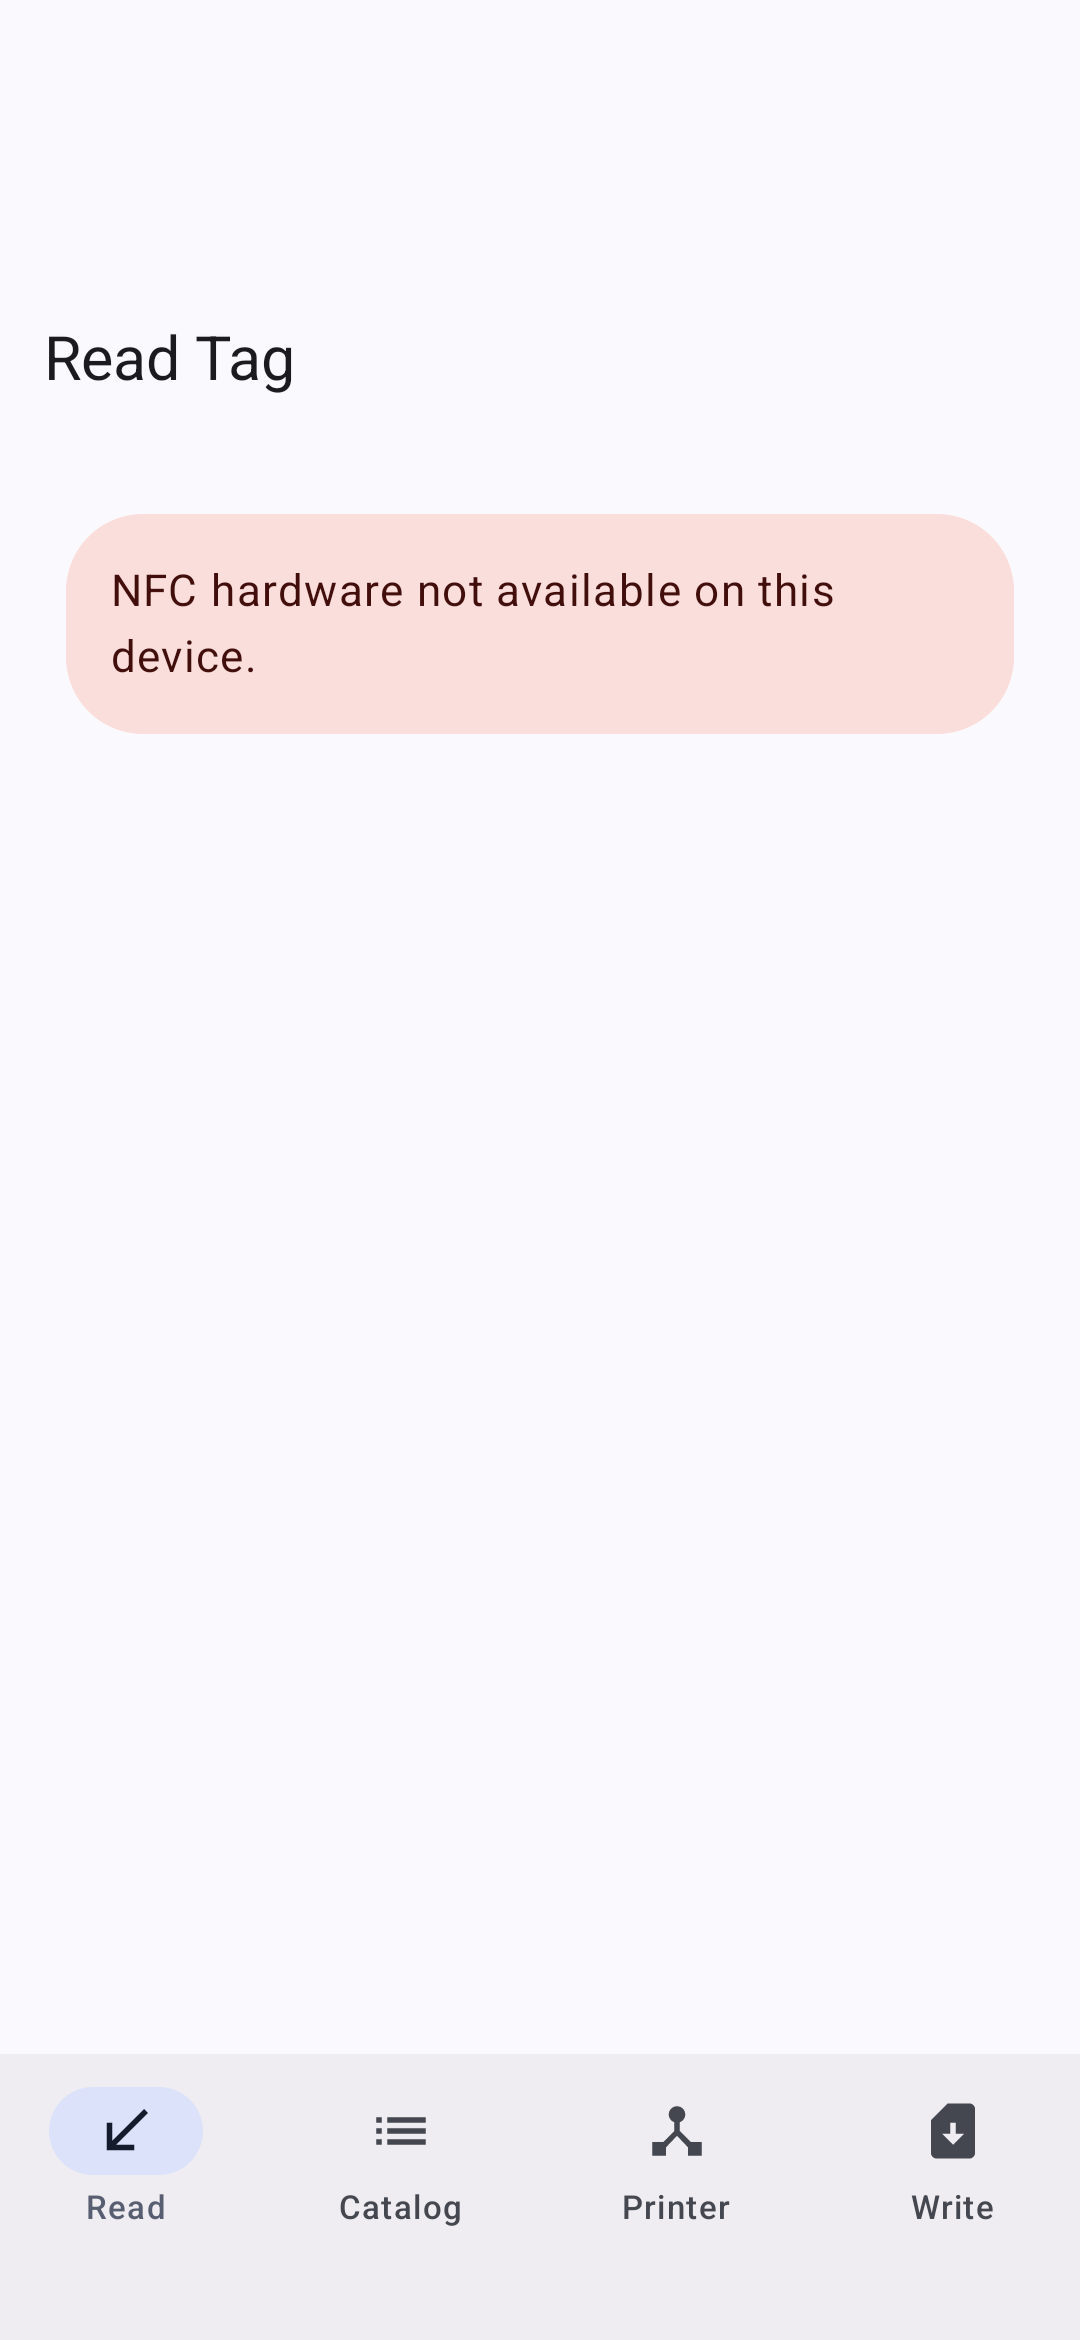
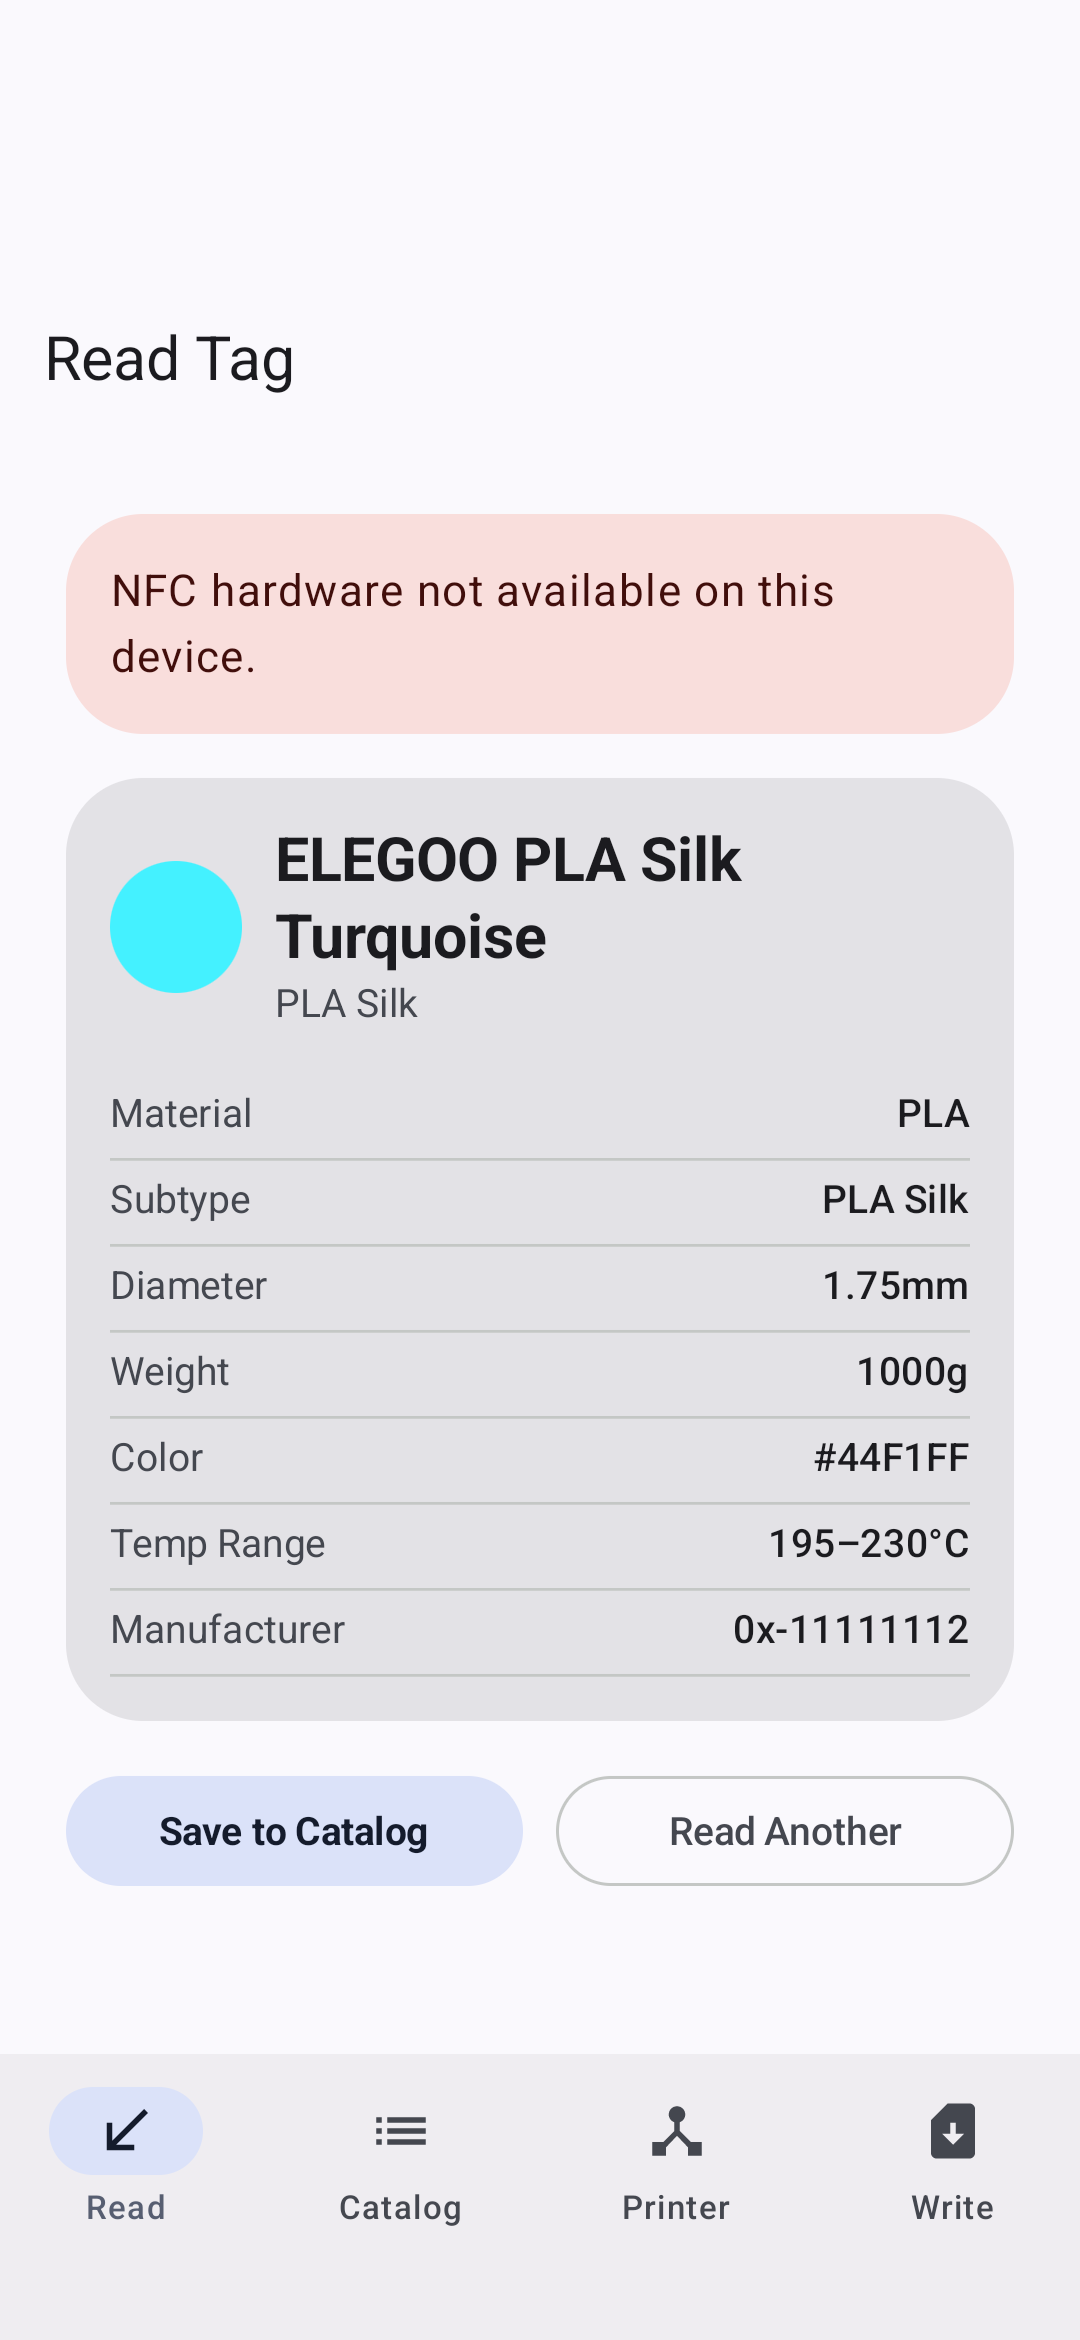
fix: seed simulated NFC read result for Read screen screenshot
- Access ViewModel via activity.viewModelStore to inject demo filament
  data (ELEGOO PLA Silk Turquoise) for the Read screen capture
- Read screen now shows filament info card with color swatch, material
  details, temp range, and action buttons instead of just NFC error
- Increased wait time to 1500ms for Compose recomposition to complete

diff --git a/app/src/androidTest/java/com/blumlaut/filamenttagwriter/ScreenshotTest.kt b/app/src/androidTest/java/com/blumlaut/filamenttagwriter/ScreenshotTest.kt
@@ -7,7 +7,9 @@ import androidx.compose.ui.graphics.asAndroidBitmap
 import androidx.compose.ui.test.*
 import androidx.compose.ui.test.junit4.createAndroidComposeRule
 import com.blumlaut.filamenttagwriter.data.local.FilamentEntity
+import com.blumlaut.filamenttagwriter.data.model.Filament
 import com.blumlaut.filamenttagwriter.data.model.generateProductionDateRaw
+import com.blumlaut.filamenttagwriter.nfc.NfcReaderWriter
 import kotlinx.coroutines.runBlocking
 import org.junit.Rule
 import org.junit.Test
@@ -18,13 +20,16 @@ import java.util.UUID
 /**
  * Instrumented test that captures screenshots of each app screen.
  *
- * Run with:
- *   ./gradlew :app:connectedAndroidTest \
+ * Screenshots are encoded as base64 in logcat because the test APK is
+ * uninstalled before Gradle hooks can pull files via adb run-as.
+ *
+ * Run:
+ *   ./gradlew :app:connectedAndroidTest --no-configuration-cache \
  *     -PtestInstrumentationRunnerArguments.class=com.blumlaut.filamenttagwriter.ScreenshotTest
  *
- * Screenshots are saved to the app's cache directory as PNGs.
- * Pull them with:
- *   adb exec-out run-as com.blumlaut.filamenttagwriter cat cache/screenshot_<screen>.png > <local-path>.png
+ * Extract:
+ *   adb logcat -d | grep ScreenshotTest > /tmp/screenshot_logs.txt
+ *   ./scripts/capture-screenshots.sh
  */
 class ScreenshotTest {
 
@@ -112,8 +117,6 @@ class ScreenshotTest {
     @Test
     fun captureAllScreens() {
         val activity = composeTestRule.activity
-        val cacheDir = activity.cacheDir
-        Log.d("ScreenshotTest", "Cache dir: $cacheDir")
 
         // Seed test filaments directly into the Room database
         val dao = (activity.application as FilamentTagApp).database.filamentDao()
@@ -121,10 +124,46 @@ class ScreenshotTest {
             testFilaments.forEach { dao.insert(it) }
         }
 
-        // Wait for the ViewModel to receive the data via Flow
-        Thread.sleep(1000)
+        // Get the ViewModel from the activity's ViewModelStore to set simulated NFC data
+        val viewModel = try {
+            val activityComponent = activity as androidx.activity.ComponentActivity
+            val store = activityComponent.viewModelStore
+            val keys = store.keys()
+            val vmKey = keys.find { it.contains("FilamentViewModel") } ?: keys.first()
+            store[vmKey] as FilamentViewModel
+        } catch (e: Exception) {
+            Log.e("ScreenshotTest", "Could not access ViewModel", e)
+            null
+        }
 
-        // 1. Capture Read screen (default start destination)
+        // Seed a simulated NFC read result so Read screen shows filament data
+        // instead of just "NFC hardware not available"
+        viewModel?.let {
+            val demoFilament = Filament(
+                id = UUID.randomUUID().toString(),
+                name = "ELEGOO PLA Silk Turquoise",
+                manufacturerCode = 0xEEEEEEEE.toInt(),
+                material = "PLA",
+                subtypeCode = 0x0000,
+                subtype = "PLA Silk",
+                color = "#44F1FF",
+                colorRgb = 0x44F1FF,
+                colorModifier = 0x00,
+                minTemp = 195,
+                maxTemp = 230,
+                diameter = 1.75f,
+                weight = 1000,
+                productionDateRaw = generateProductionDateRaw(),
+            )
+            it.nfcReadResult.value = NfcReaderWriter.ReadResult.Success(demoFilament)
+            Log.d("ScreenshotTest", "Seeded simulated NFC read result")
+        }
+
+        // Wait for the catalog to populate and UI to recompose with NFC data
+        Thread.sleep(1500)
+        composeTestRule.onRoot().assertIsDisplayed() // ensure UI is stable
+
+        // 1. Capture Read screen (shows simulated NFC read result)
         composeTestRule.onRoot().captureToImage().saveAs("read")
 
         // 2. Navigate to Catalog and capture
@@ -153,7 +192,7 @@ class ScreenshotTest {
             val bytes = baos.toByteArray()
             val base64 = Base64.getEncoder().encodeToString(bytes)
             Log.d("ScreenshotTest", "===SCREENSHOT_START:$tag===")
-            // Log base64 in chunks to avoid logcat line length limits (approx 1000 chars per line)
+            // Log base64 in chunks to avoid logcat line length limits
             val chunkSize = 900
             for (i in (0 until base64.length step chunkSize)) {
                 Log.d("ScreenshotTest", base64.substring(i, minOf(i + chunkSize, base64.length)))
